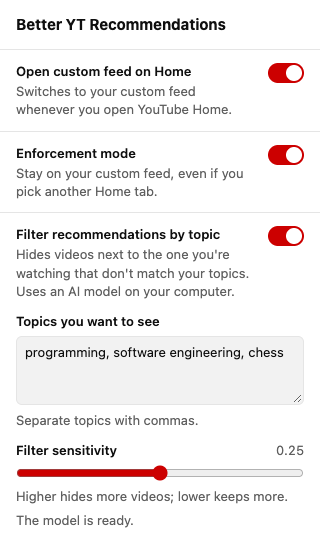
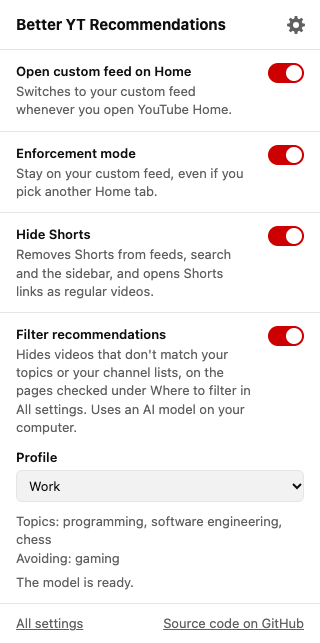
docs: describe the new settings and pages
The README's Settings section now reads as the UI does: the popup (four switches, the profile
switch, the summary, the model status and Load now), then the options page (Topics, Profiles,
Where to filter, Channels, Keyboard shortcuts), then what the filter shows on YouTube. The
settings popup screenshot is retaken and the options page's Topics section, with a tried title,
is added. CONTRIBUTING names the Shorts redirect rule among the things to update when YouTube
changes, and PRIVACY lists every way the model can start downloading.

Release notes for the maintainer:
- Home is now filtered by default (turn it off under Where to filter).
- The model starts loading as soon as you save your first topics, on that computer.
- New permissions: contextMenus, declarativeNetRequestWithHostAccess, and host access to
  youtube.com, with nothing more read or sent.
- New keyboard shortcuts: Alt+Shift+F turns Filter recommendations on or off and Alt+Shift+S
  turns Hide Shorts on or off (Control+Shift+F/S on a Mac, Alt+Shift+F/H on ChromeOS).

Manual check on live YouTube (Chrome for Testing 1248, headless, signed out, region PT):
- Load now: the model loaded and the status read "The model is ready".
- Search results: 29 of the "cooking recipes" results hidden with the topics programming,
  software engineering, chess; the row read "29 videos hidden".
- Watch sidebar: the row and the badge (99+) showed. After Back the badge read 21, the
[…]

diff --git a/README.md b/README.md
@@ -14,11 +14,12 @@ Home stays on your feed.
 **Keep the sidebar on topic.** Watching a coding tutorial? Tell the extension you
 want "programming, JavaScript, web development". It hides the gaming clips,
 talk-show segments and get-rich-quick videos next to it, so only recommendations
-worth your time remain. It can filter Home, your Subscriptions and search results too.
+worth your time remain. It filters Home too, and can filter your Subscriptions and search
+results.
 
 **Private by design.** A small, lightweight embedding model runs right on your
-computer. The AI doesn't chat or write: it turns each video's title and
-your topics into numbers that capture their meaning, then keeps the videos whose
+computer. The AI doesn't chat or write: it turns each video's title and channel, and
+your topics, into numbers that capture their meaning, then keeps the videos whose
 meaning is close to your topics. The extension never sends what you watch anywhere.
 
 *The Home feature needs **Your custom feed** to be available on your YouTube account
@@ -41,59 +42,83 @@ YouTube tabs pick up changes right away.
 - **Hide Shorts** (off by default): hides the Shorts entry in the side menu, Shorts
   shelves on Home, Subscriptions and channel pages, and Shorts in search results and
   the sidebar. A link to a Short opens it as a regular video, without the endless feed of
-  Shorts after it. Opening a Short's address directly (typed, bookmarked or reloaded) loads the
-  regular player right away.
+  Shorts after it. Opening a Short's address directly (typed, bookmarked, reloaded or
+  clicked on another site) loads the regular player right away.
 - **Filter recommendations** (on by default): hides videos that don't match your
   topics on the pages you pick under Where to filter, that are closer to a topic to
   avoid, or that come from a channel you always hide. It does nothing until you type
   some topics to see or to avoid, or a channel to hide. Turn it off to show every
   video again, including blocked channels, and free the model's memory.
-- The **Profile** switch, once you have a profile.
-- A summary of your topics to see and to avoid; click it to change them.
+- **Profile**, once you have saved a profile: switches to another profile's topics.
+- A summary of your topics to see and to avoid. Click it to change them on the options page.
+- While the filter is on and has topics to see or to avoid, the model's status: waiting
+  to be needed, loading, ready, or failed. While it's waiting or after a failure, **Load
+  now** next to the status loads it right away. Videos stay visible while the model
+  loads, and if it fails to load or to answer. After a failure, it tries again a little
+  later.
+
+![The settings popup with all four switches on, the profile Work selected, the summary Topics: programming, software engineering, chess and Avoiding: gaming, and the status The model is ready](docs/settings-popup.png)
 
 ### On the options page
 
-The **Filter recommendations** switch is on both pages.
+Everything on the options page except the **Filter recommendations** switch and the
+keyboard shortcuts is disabled while the filter is off, and the model's status is hidden.
 
-- **Topics you want to see**: the topics to keep, separated by commas. The field is
-  disabled while the filter is off.
-- **Topics to avoid**: topics whose videos you don't want, separated by commas. A
-  video is hidden when it's closer to one of them than to the closest topic you want.
-  With only topics to avoid, a video is hidden when it's closer to one of them than
-  the filter sensitivity.
-- **Filter sensitivity** (0.25 by default): how close to your topics a video must be
-  to stay visible, from 0.10 to 0.40. Move it up to hide more videos, or down if the
-  filter hides videos you'd want. YouTube pages update as you move it. With only
-  topics to avoid, it works the other way round: move it up to hide fewer videos.
-- **Try a title**: type a video title to see how close it is to your topics and
-  whether the filter would show or hide it. Move the sensitivity to see the verdict
-  change. The first try loads the model if it isn't loaded yet.
+- **Topics**:
+  - **Filter recommendations**: the same switch as in the popup.
+  - **Topics you want to see**: the topics to keep, separated by commas.
+  - **Topics to avoid**: topics whose videos you don't want, separated by commas. A
+    video is hidden when it's closer to one of them than to the closest topic you want.
+    With only topics to avoid, a video is hidden when it's closer to one of them than
+    the filter sensitivity.
+  - **Filter sensitivity** (0.25 by default): how close to your topics a video must be
+    to stay visible, from 0.10 to 0.40. Move it up to hide more videos, or down if the
+    filter hides videos you'd want. YouTube pages update as you move it. With only
+    topics to avoid, it works the other way round: move it up to hide fewer videos.
+  - **Try a title**: type a video title to see how close it is to your topics and
+    whether the filter would show or hide it. Move the sensitivity to see the verdict
+    change. The first try loads the model if it isn't loaded yet.
+  - The model's status and **Load now**, as in the popup. The status appears as soon as
+    you type your first topic.
 - **Profiles**: save your topics and topics to avoid under a name, like 'Work' or 'Evening',
-  and switch between them from the popup's **Profile** menu. While a profile is selected,
-  editing the topics updates it. Switching from No profile to a profile replaces your topics,
-  so save them as a profile first if you want to keep them. Deleting a profile keeps the
-  topics you have now. Up to 8 profiles fit, fewer if their topics are long; if a profile's
-  topics grow too long to save, they still apply, and the page says so.
+  and switch between them here or from the popup's **Profile** menu. While a profile is
+  selected, editing the topics updates it. Switching from No profile to a profile replaces
+  your topics, so save them as a profile first if you want to keep them. **Rename** and
+  **Delete** work on the selected profile; deleting a profile keeps the topics you have now.
+  Up to 8 profiles fit, fewer if their topics are long; if a profile's topics grow too long
+  to save, they still apply, the profile keeps its earlier topics, and the page says there's
+  no room for them.
 - **Where to filter**: Next to the video you're watching (on by default), Home (on by
   default, including Your custom feed), Subscriptions (off by default) and Search
   results (off by default). Subscriptions and search results show what you asked for,
   so filtering them is up to you. Subscriptions is filtered in its grid layout only. In
   search results, the shelves YouTube mixes in, such as "People also watched", are
   filtered like the results. Playlists and mixes on Home and in search results are
-  judged by their title, like videos. The page checkboxes are disabled while the filter is off.
-- **Never hide these channels** and **Always hide these channels**: one channel name per
-  line, as YouTube shows it, up to 50 per list. Videos from a channel you never hide stay
-  visible whatever their topic; videos from a channel you always hide are hidden on every
-  page you filter, without the model. Names match ignoring case and spacing, so two
-  channels with the same name both match, and a channel that changes its name needs adding
-  again. Typing a name into one list removes it from the other. The lists are disabled
-  while the filter is off. You can also right-click a video's thumbnail or title on
-  YouTube (or its channel name on Home and in search results) and pick **Never hide this
-  channel** or **Always hide this channel**. A message at the bottom of the page confirms it.
-  Ads and the shelves the filter leaves alone, such as Home's, stay as they are when you pick
-  a channel from them; the channel is listed for every page the filter works on.
+  judged like videos, by their title and channel.
+- **Channels**: **Never hide these channels** and **Always hide these channels** take one
+  channel name per line, as YouTube shows it, up to 50 per list. Videos from a channel you
+  never hide stay visible whatever their topic; videos from a channel you always hide are
+  hidden on every page you filter, without the model. Names match ignoring case and
+  spacing, so two channels with the same name both match, and a channel that changes its
+  name needs adding again. Typing a name into one list removes it from the other. You can
+  also right-click a video's thumbnail or title on YouTube (or its channel name on Home and
+  in search results) and pick **Never hide this channel** or **Always hide this channel**.
+  A message at the bottom of the page confirms it. Ads and the shelves the filter leaves
+  alone, such as Home's, stay as they are when you pick a channel from them; the channel is
+  listed for every page the filter works on.
+- **Keyboard shortcuts**: **Alt+Shift+F** turns Filter recommendations on or off, and
+  **Alt+Shift+S** turns Hide Shorts on or off. On a Mac they are **Control+Shift+F** and
+  **Control+Shift+S**, and on ChromeOS **Alt+Shift+F** and **Alt+Shift+H**. On YouTube, a
+  message confirms the change. The section lists the keys Chrome assigned. If another
+  extension already uses a combination, Chrome leaves it unset and the list says **Not
+  set**; **Change shortcuts** opens `chrome://extensions/shortcuts`, where you can pick
+  your own.
+
+![The Topics section of the options page, with the topics programming, software engineering and chess, the topic to avoid gaming, the filter sensitivity at 0.25, the title The best chess opening for beginners tried and shown, and the status The model is ready](docs/options-page.png)
 
 Settings synced from another computer are kept within the limits the options page allows.
+
+### On YouTube
 
 When the filter hides videos, the list starts with a row such as "12 videos hidden".
 **Show them** shows them, dimmed and outlined, until you go to another page. The
@@ -103,22 +128,6 @@ The filter judges each video by its title and channel, so it makes mistakes: it 
 hide a few videos you'd want, or keep a few you wouldn't. A handful of specific
 topics works better than one broad word. For example, "programming, JavaScript, web
 development" keeps more coding videos than "programming" alone.
-
-While the filter is on and has topics to see or to avoid, a line in the popup and on
-the options page shows the model's status: waiting to be needed, loading, ready, or
-failed. While it's waiting or after a failure, **Load now** next to the status loads it
-right away. Videos stay visible while the model loads, and if it fails to load or to
-answer. After a failure, it tries again a little later.
-
-![The settings popup, with all three toggles on, the topics programming, software engineering and chess, the filter sensitivity at 0.25, and the status The model is ready](docs/settings-popup.png)
-
-### Keyboard shortcuts
-
-**Alt+Shift+F** turns Filter recommendations on or off, and **Alt+Shift+S** turns Hide
-Shorts on or off. On a Mac they are **Control+Shift+F** and **Control+Shift+S**, and on
-ChromeOS **Alt+Shift+F** and **Alt+Shift+H**. On YouTube, a message confirms the change. If
-another extension already uses a combination, Chrome leaves it unset; **Change shortcuts**
-on the options page opens `chrome://extensions/shortcuts`, where you can pick your own.
 
 ## Performance
 
@@ -237,10 +246,15 @@ refresh YouTube.
   asks to load it early, passes messages to it, and closes it to free memory.
 - `src/offscreen.html` and `src/offscreen.js` are that hidden page. They load the
   model when needed and close it after 5 idle minutes.
-- `src/matcher.js` compares video titles with your topics.
+- `src/matcher.js` compares each video's title and channel with your topics.
 - `src/model.js` loads the model with Transformers.js.
 - `src/vendor/transformers/` holds Transformers.js and ONNX Runtime Web, copied from
   `node_modules` by `scripts/vendor.js`. Don't edit these files.
+- `src/icons/` holds the extension's icons.
+- `test/` holds the tests, and `test/helpers.js` the fake Chrome APIs and page setup they
+  share. `test/fixtures/watch-sidebar.html`, `test/fixtures/home-grid.html` and
+  `test/fixtures/search-results.html` are YouTube's markup for the lists the filter reads;
+  [CONTRIBUTING.md](CONTRIBUTING.md) says where each comes from and when to replace it.
 
 To run the checks, install Node.js 24 or later and pnpm 11, then run:
 

diff --git a/CONTRIBUTING.md b/CONTRIBUTING.md
@@ -40,15 +40,22 @@ Start it with `feat:`, `fix:`, `docs:`, `chore:`, `refactor:`, `test:`, `ci:` or
 
 **YouTube changed its layout.** The selectors live at the top of `src/content.js`
 (the custom feed tab), `src/cards.js` (the video cards of every filtered list) and
-`src/shorts.css` (Shorts). Update them, and update the matching markup in the tests.
+`src/shorts.css` (Shorts), and `CARD_LINKS` in `src/menus.js` lists the video and channel
+links that get the right-click entries. Update them, and update the matching markup in the
+tests.
 `test/fixtures/watch-sidebar.html`, `test/fixtures/home-grid.html` and
-`test/fixtures/search-results.html` are copies of real YouTube markup; replace the one for a
+`test/fixtures/search-results.html` are YouTube's markup for each page; replace the one for a
 page when that page changes. Capture Home and search signed in with a throwaway account that
 has some watch history, then scrub anything personal before committing (see the list in the
 fixture's first comment). The Subscriptions tests reuse the Home fixture with its page subtype
 swapped, because the two grids share the same markup. Until signed-in captures replace them,
 `home-grid.html` is written by hand and `search-results.html` was captured signed out; each
 says so in its first comment.
+
+If Shorts move to another address, update the redirect rule's `regexFilter` in
+`src/rules/shorts-redirect.json`, `SHORT_PATH` in `src/shorts.js` and the `href` selectors in
+`src/shorts.css` together, along with the addresses in `test/shorts-redirect.test.js`,
+`test/shorts.test.js` and `test/cards.test.js`.
 
 **A new language.** Add `_locales/<code>/messages.json` with every key from
 `_locales/en/messages.json`. If YouTube names the custom feed tab differently in that

diff --git a/PRIVACY.md b/PRIVACY.md
@@ -33,11 +33,12 @@ Uninstalling the extension deletes everything it stored.
 ## Hugging Face
 
 The topic filter's model downloads once from huggingface.co (Hugging Face), the first
-time it's needed on a computer: when you save your first topics there, when you click
-Load now, or when you open a page the filter works on. Chrome then caches it, and the
-model runs on your computer. The download sends nothing about you or what you
-watch, but like any download, Hugging Face sees your IP address. Its handling of that
-is covered by [Hugging Face's privacy policy](https://huggingface.co/privacy).
+time it's needed on a computer: when you save your first topics there or turn the filter
+back on with topics set, when you click Load now or try a title on the options page, or
+when you open a page the filter works on. Chrome then caches it, and the model runs on
+your computer. The download sends nothing about you or what you watch, but like any
+download, Hugging Face sees your IP address. Its handling of that is covered by
+[Hugging Face's privacy policy](https://huggingface.co/privacy).
 
 The extension downloads nothing while the filter is off or has no topics to see or to
 avoid.
